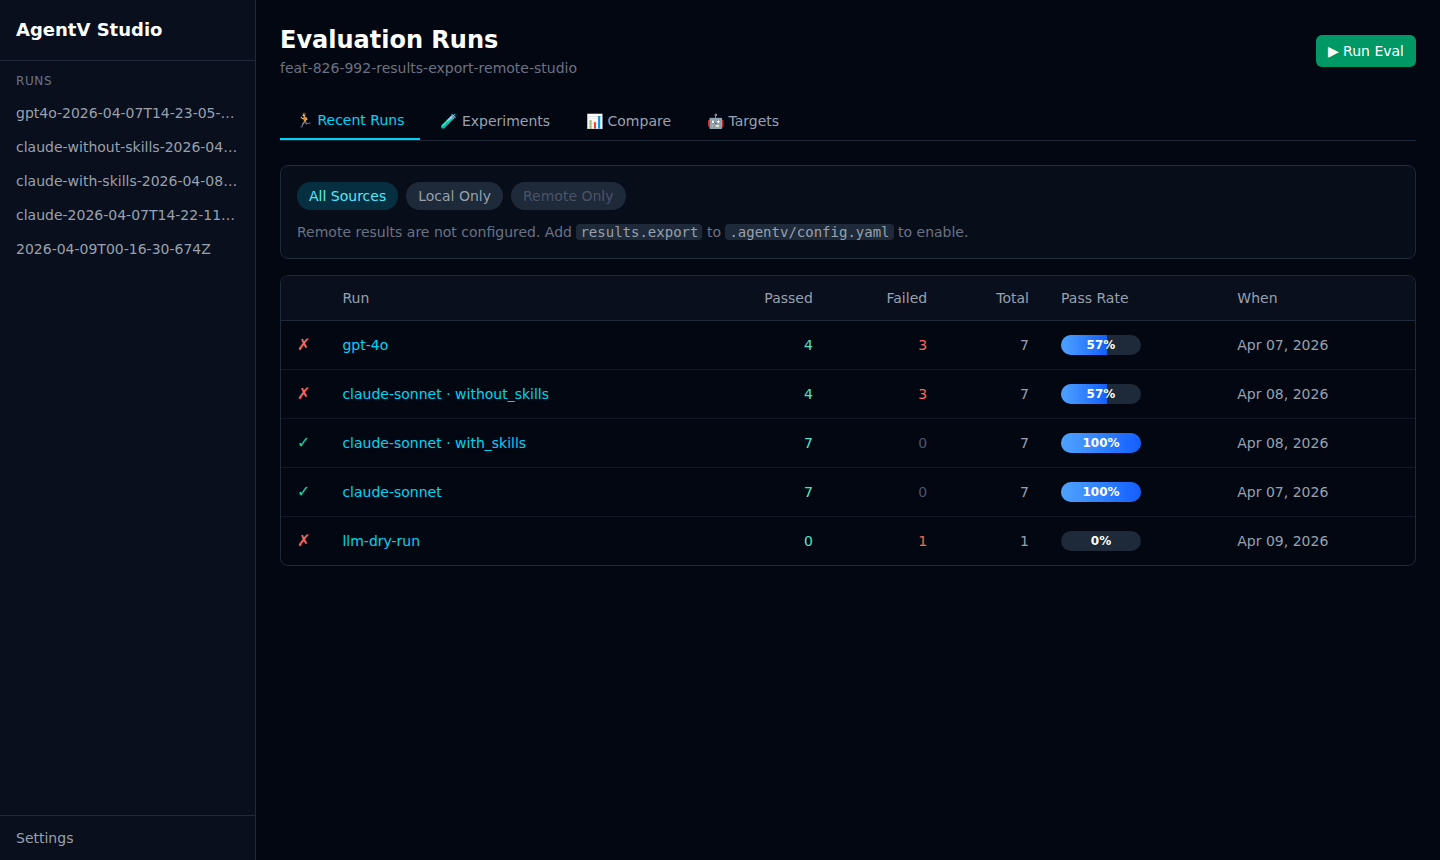
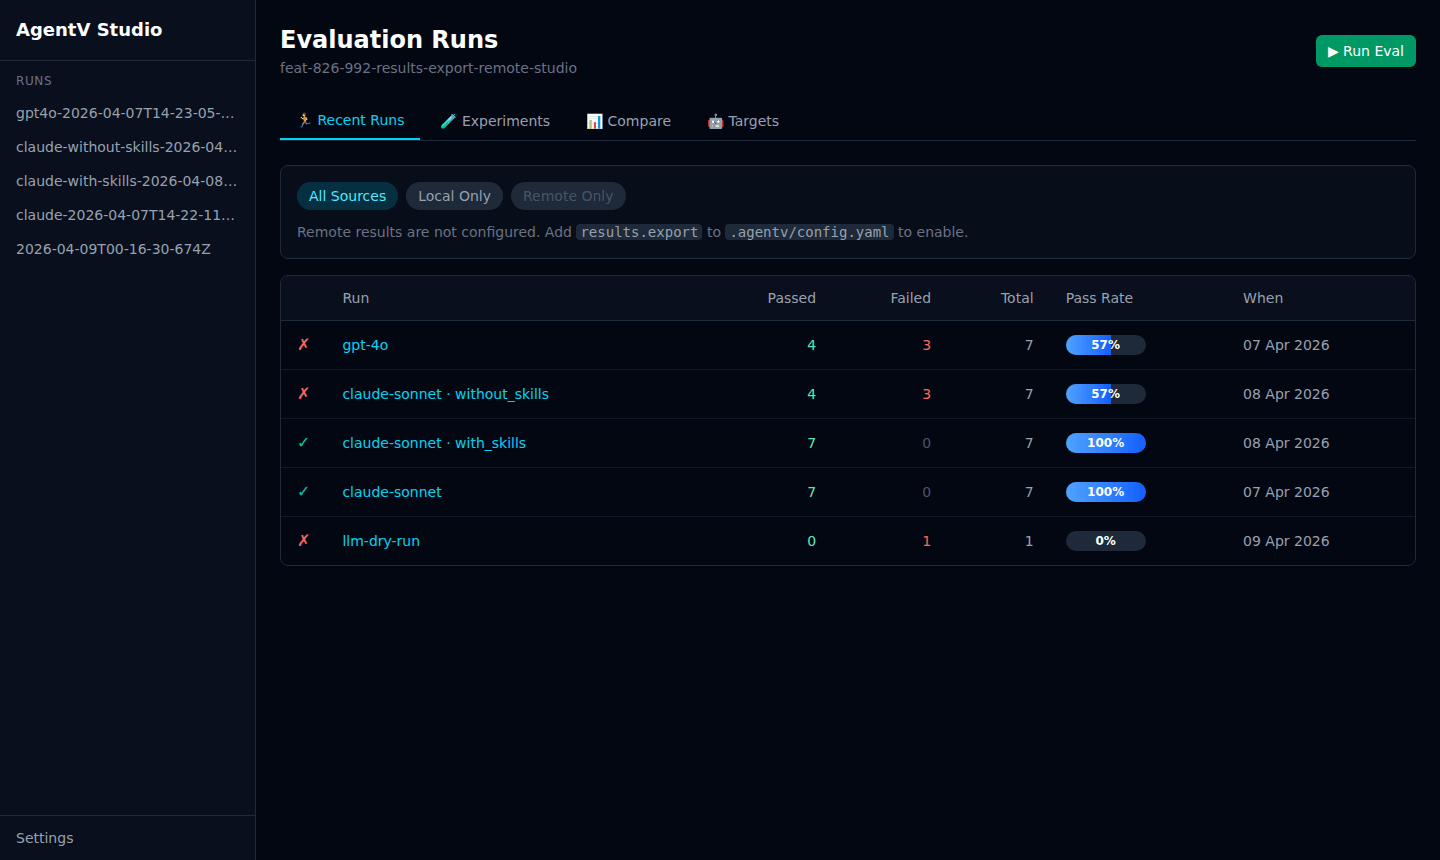
fix(studio): manually format date as DD MMM YYYY (guaranteed day-first)

diff --git a/apps/studio/src/components/RunList.tsx b/apps/studio/src/components/RunList.tsx
@@ -25,11 +25,9 @@ function formatDate(ts: string | undefined | null): { date: string; full: string
   try {
     const d = new Date(ts);
     if (Number.isNaN(d.getTime())) return { date: 'N/A', full: 'N/A' };
-    const date = d.toLocaleDateString('en-AU', {
-      year: 'numeric',
-      month: 'short',
-      day: '2-digit',
-    });
+    const day = String(d.getDate()).padStart(2, '0');
+    const month = d.toLocaleString('en', { month: 'short' });
+    const date = `${day} ${month} ${d.getFullYear()}`;
     return { date, full: d.toLocaleString() };
   } catch {
     return { date: 'N/A', full: 'N/A' };

diff --git a/apps/studio/src/components/ExperimentsTab.tsx b/apps/studio/src/components/ExperimentsTab.tsx
@@ -86,7 +86,7 @@ function formatTimestamp(ts: string | undefined | null): { date: string; full: s
     const d = new Date(ts);
     if (Number.isNaN(d.getTime())) return { date: 'N/A', full: 'N/A' };
     return {
-      date: d.toLocaleDateString('en-AU', { year: 'numeric', month: 'short', day: '2-digit' }),
+      date: `${String(d.getDate()).padStart(2, '0')} ${d.toLocaleString('en', { month: 'short' })} ${d.getFullYear()}`,
       full: d.toLocaleString(),
     };
   } catch {
